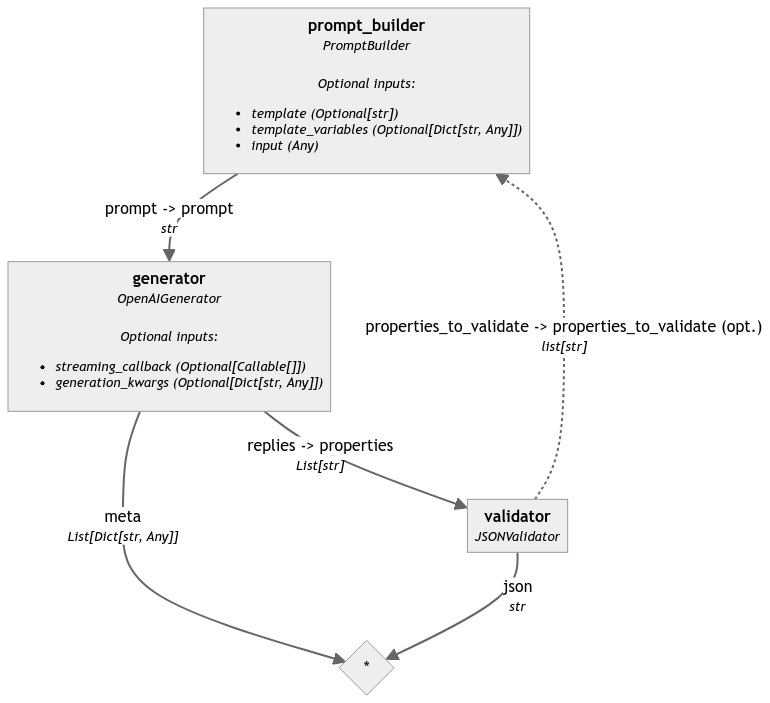
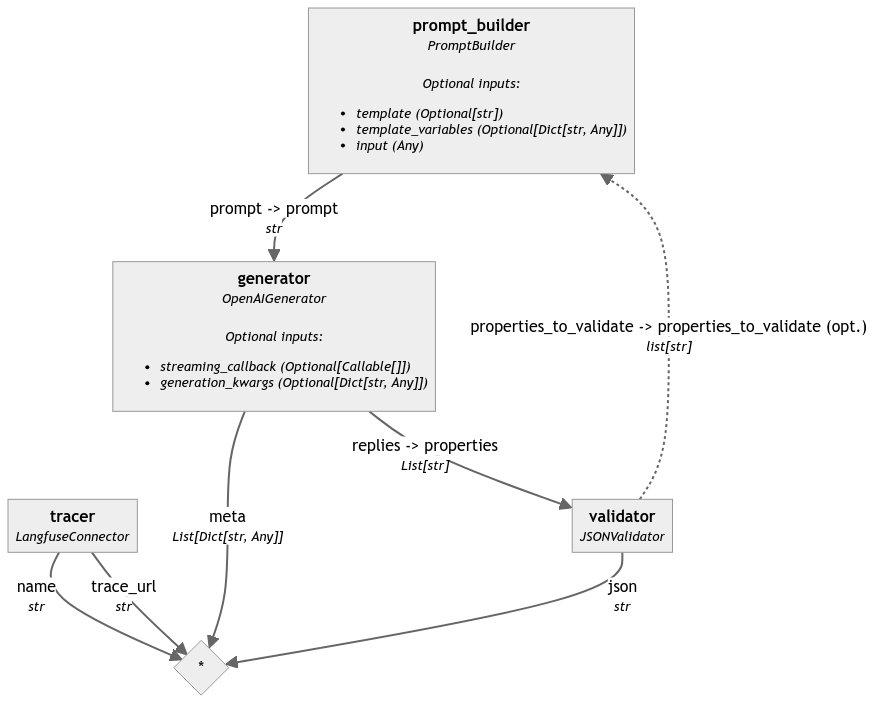
Cleanup | LangFuse Infusion

diff --git a/calarmhelp/services/googleCalendarService.py b/calarmhelp/services/googleCalendarService.py
@@ -1,27 +1,36 @@
 import os.path
 import os
+from typing import Any
+import logging
 
+from google.auth import default
 from google.auth.exceptions import MutualTLSChannelError
 from googleapiclient.discovery import build
 from googleapiclient.errors import HttpError
-from google.oauth2.credentials import Credentials
 
 from calarmhelp.services.util.util import GoogleCalendarInfoInput
 
+# Add the import statement for GoogleCalendarInfoInput
+
 from google.oauth2 import service_account
+
 
 from dotenv import load_dotenv
 
 load_dotenv()
 
-# If modifying these scopes, delete the file token.json.
+logger = logging.getLogger("Google Calendar Service")
+
+
 SCOPES = [
     "https://www.googleapis.com/auth/calendar.readonly",
     "https://www.googleapis.com/auth/calendar",
 ]
 
 
-def GoogleCalendarServiceScript(whole_user_input: GoogleCalendarInfoInput):
+def GoogleCalendarServiceScript(
+    whole_user_input: GoogleCalendarInfoInput,
+) -> dict[str, Any]:
     """
     This function interacts with the Google Calendar API to create a new event on the user's calendar.
 
@@ -44,13 +53,13 @@ def GoogleCalendarServiceScript(whole_user_input: GoogleCalendarInfoInput):
             )
 
             service = build("calendar", "v3", credentials=streetCred)
-        # service = build("calendar", "v3", credentials=defaultCreds)
-
         else:
-            defaultCreds, project = default()
-            service = build("calendar", "v3", credentials=) 
+            defaultCreds, _ = default()
+
+            service = build("calendar", "v3", credentials=defaultCreds)
+
         if not service:
-            raise Exception("google service not created")
+            return {"error": "google calendar service not created, find a better way"}
 
         myEvent = {
             "summary": whole_user_input.response,
@@ -68,13 +77,14 @@ def GoogleCalendarServiceScript(whole_user_input: GoogleCalendarInfoInput):
         created_event = (
             service.events().insert(calendarId="primary", body=myEvent).execute()
         )
+        
         if not created_event:
-            print("====Event Creation Failed")
-            return
+            logger.exception("Event Creation Failed")
+            return {"error": "Event Creation Failed"}
         else:
-            return created_event["summary"]
+            logger.info("Event Created")
+            logger.info("Event Object: ", created_event)
+            return {"success": "Event Created"}
     except (HttpError, MutualTLSChannelError) as error:
-        if MutualTLSChannelError:
-            raise Exception(error)
-        if HttpError:
-            raise Exception(error)
+        logger.exception(error)
+        return {"error": str(error)}

diff --git a/calarmhelp/services/calendarAlarmService.py b/calarmhelp/services/calendarAlarmService.py
@@ -15,13 +15,17 @@ from haystack.components.builders import PromptBuilder
 from haystack.components.generators import OpenAIGenerator
 from haystack.core.component import component
 
+
 from calarmhelp.services.util.util import CalendarAlarmResponse, GoogleCalendarInfoInput
 
 from dotenv import load_dotenv
 
+load_dotenv()
+
+from haystack_integrations.components.connectors.langfuse import LangfuseConnector
+
 logger = logging.getLogger("haystack")
 
-load_dotenv()
 
 template_file_path = os.path.join(
     os.path.dirname(os.path.abspath(__file__)),
@@ -36,7 +40,7 @@ def create_alarm_readout(input: CalendarAlarmResponse) -> str:
     """Provides the 'description' field for google calendar
 
     Args:
-        input (dict): The input dictionary containing alarm information.
+        input (CalendarAlarmResponse): The input object containing alarm information.
 
     Returns:
         str: A string that describes the alarm in a format that Google Calendar can understand.
@@ -183,6 +187,9 @@ class CalendarAlarmServicePipeline:
         generator = self._generator
         json_validator = JSONValidator()
 
+        self._pipeline.add_component(
+            "tracer", LangfuseConnector("Calendar Alarm Service")
+        )
         self._pipeline.add_component("prompt_builder", prompt_builder)
         self._pipeline.add_component("generator", generator)
         self._pipeline.add_component("validator", json_validator)
@@ -214,6 +221,8 @@ class CalendarAlarmServicePipeline:
 
         jsonOutput = self.cleanJsonOutput(jsonOutput)
         parsedJsonObject = CalendarAlarmResponse.model_validate_json(jsonOutput)
+
+        logger.info(f"\nLangFuse: {results['tracer']['trace_url']}\n")
 
         return GoogleCalendarInfoInput(
             response=create_alarm_readout(parsedJsonObject), theJson=parsedJsonObject

diff --git a/calarmhelp/scripts/precommit.py b/calarmhelp/scripts/precommit.py
@@ -1,15 +1,16 @@
 import subprocess
 
-def run():
-  command = [
-    "poetry",
-    "run",
-    "pre-commit",
-    "run",
-    "--all-files",
-  ]
 
-  subprocess.run(command)
-  
-  if __name__ == "__main__":
-    run()
+def run():
+    command = [
+        "poetry",
+        "run",
+        "pre-commit",
+        "run",
+        "--all-files",
+    ]
+
+    subprocess.run(command)
+
+    if __name__ == "__main__":
+        run()

diff --git a/README.Docker.md b/README.Docker.md
@@ -1,29 +1,57 @@
-### Building and running your application
 
-When you're ready, start your application by running:
+
+### Locally with Docker
+The advantage of running your application in Docker is that you can ensure that your application runs the same way locally as it does in the cloud.
+
+When you're ready to run locally, start your application by running:
 `docker compose up --build`.
 
 Your application will be available at http://localhost:8000.
 
-### Deploying your application to the cloud
+(To run locally on your macine without docker [click here](README.md#locally-on-your-machine))
+_________________
 
-#### Login to your registry
+### Deploying to Google Cloud
+After ensuring that docker and docker-compose are installed - and that docker-desktop is running - you can build and run your application by running:
+1. Setup gcloud auth: 
+  ```
+  gcloud auth login
+  ```
+2. Set your project: 
+```
+gcloud config set project calarmhelp
+```
+3. Set your region: 
+```
+gcloud config set compute/region us-east1
+```
+4. Set your registry: 
+```
+gcloud auth configure-docker gcr.io
+```
+5. Build your image: 
+Be careful to include the `.` at the end of the command.
+It is not a typo, it is a reference to the current directory.
+```
+docker build -t gcr.io/calarmhelp/<name-you-pick>:latest .
+```
+6. Push your image: 
+Notice, there is no further reference to the current directory, hence no `.` is needed.
+```
+docker push gcr.io/calarmhelp/<name-you-picked-in-the-previous-step>:latest
+```
+7. Deploy your image: 
+```
+gcloud run deploy --image gcr.io/calarmhelp/<name-you-picked-in-the-previous-step>:latest --platform managed --region us-east1 --allow-unauthenticated
+```
 
-`docker login myregistry.com`.
-
-
-First, build your image, e.g.: `docker build -t us-east1-docker.pkg.dev/723574083303/myapp:latest .`.
-
-If your cloud uses a different CPU architecture than your development
-machine (e.g., you are on a Mac M1 and your cloud provider is amd64),
-you'll want to build the image for that platform, e.g.:
-`docker build --platform=linux/amd64 -t myapp .`.
-
-Then, push it to your registry, e.g. `docker push myregistry.com/myapp`.
-
-Consult Docker's [getting started](https://docs.docker.com/go/get-started-sharing/)
-docs for more detail on building and pushing.
-
-### References
-
-- [Docker's Python guide](https://docs.docker.com/language/python/)
+_________________
+README.md
+## References
+- [README.md#Start](README.md#Start): Instructions for starting the application.
+- [Docker's Python guide](https://docs.docker.com/language/python/): Official guide for using Python with Docker.
+- [Docker: Getting Started](https://docs.docker.com/get-started/workshop/): Comprehensive guide on building and pushing Docker images.
+- [Docker Compose: How it Works](https://docs.docker.com/compose/compose-application-model/): Explanation of Docker Compose functionality.
+- [Google Cloud Run](https://cloud.google.com/run/docs/deploying): Documentation for deploying applications to Google Cloud Run.
+- [Google Cloud Workload Identity Federation](https://cloud.google.com/iam/docs/workload-identity-federation-with-other-providers): Guide on integrating other identity providers with Google Cloud.
+- [Google Cloud Local testing](https://cloud.google.com/kubernetes-engine/enterprise/knative-serving/docs/testing/local): Instructions for local testing with Google Cloud.

diff --git a/README.md b/README.md
@@ -19,6 +19,16 @@ This output (simplified in this readme) is passed as input to a google calendar 
 <br><br>
 After the calendar event is created - the Android application can look at the calendar and create an alarm on your behalf based on the tags in that title + the syntax for lead time for a reminder of that alarm.
 
+## Setting up your project
+
+#### Requirements
+- [Docker](https://docs.docker.com/get-docker/)
+- [Docker Compose](https://docs.docker.com/compose/install/)
+- [Python >= 3.10](https://www.python.org/downloads/)
+- [Poetry](https://python-poetry.org/docs/)
+- [gcloud](https://cloud.google.com/sdk/docs/install)
+
+_________________
 ## Installation
 
 1. Make sure you have Python and Poetry installed on your system. If not, you can install them by following the official documentation:
@@ -55,18 +65,68 @@ touch .env
 ```.env
   OPENAI_API_KEY=<Refer to OpenAI Docs>
   ORIGINS=<A string which defines origins for CORS middleware>
+  GOOGLE_APPLICATION_CREDENTIALS=<to the location of your google credentials file>
+```
+  See [How Application Default Credentials Work](https://cloud.google.com/docs/authentication/application-default-credentials)
+
+See [OpenAI API Keys](https://platform.openai.com/docs/quickstart/step-2-set-up-your-api-key)
+<br>
+_________________
+
+## Building and running your application
+### Locally on your machine
+The advantage of running your application locally is that you can make changes to your application and see the changes immediately.
+
+When you're ready to run locally:
+Ensure you're in the root directory of your project and run the following commands:
+
+```
+poetry run start
+
+# alias for: `poetry run python calarmhelp/main.py`
 ```
 
-[OpenAI API Keys](https://platform.openai.com/docs/quickstart/step-2-set-up-your-api-key)
-<br>
+Your application will be available at http://localhost:8000.
+_________________
 
-7. Add GCP Credentials
-   #TODO#
+### Locally with Docker
+The advantage of running your application in Docker is that you can ensure that your application runs the same way locally as it does in the cloud.
 
-## Usage
+When you're ready to run locally, start your application by running:
+`docker compose up --build`.
 
-To start the application, run the following command:
+Your application will be available at http://localhost:8000.
+_________________
 
-```shell
+## Scripts
+The commands are defined in the `tool.poetry.scripts` section of the `pyproject.toml` file for inclusion in the application. 
+
+The scripts themselves are defined in the `calarmhelp/scripts` directory.
+
+##### To create a new script:
+1. Create a new file (named after the script) in the `calarmhelp/scripts` directory.
+2. Add the script to the `tool.poetry.scripts` section of the `pyproject.toml` file.
+3. Run `poetry install` to install the new script.
+4. Run the script by running `poetry run <script-name>`.
+
+### Commands:
+
+#### Start:
+To start your application, run:
+```
 poetry run start
 ```
+For Running locally with Docker [click here](README.Docker.md#locally-with-docker).
+
+#### Linting:
+To lint your code, run:
+```
+poetry run precommit
+```
+The linting step will also happen automatically before you commit your code.
+
+_________________
+
+### References
+- [Run locally with Docker](README.Docker.md#locally-with-docker)
+- [Deploy to Docker to Google Cloud](README.Docker.md#deploying-to-google-cloud)
